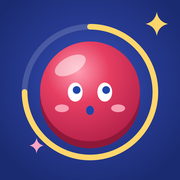
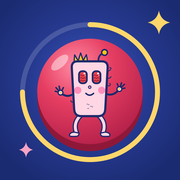
图标换成红按钮上的小Y；应用名改为「专注钟」

Changed region(s): [[0.1111, 0.1111, 0.8889, 0.9167], [0.8056, 0.0556, 0.9444, 0.1944]]

diff --git a/index.html b/index.html
@@ -9,12 +9,12 @@
 <link rel="apple-touch-icon" href="apple-touch-icon.png">
 <meta name="apple-mobile-web-app-capable" content="yes">
 <meta name="mobile-web-app-capable" content="yes">
-<meta name="apple-mobile-web-app-title" content="红按钮">
+<meta name="apple-mobile-web-app-title" content="专注钟">
 <meta name="apple-mobile-web-app-status-bar-style" content="default">
 <style>:root{padding-top:env(safe-area-inset-top,0px);padding-bottom:env(safe-area-inset-bottom,0px)}body{margin:0}[hidden]{display:none!important}img{max-width:100%}</style>
 </head>
 <body>
-<title>红按钮专注钟</title>
+<title>专注钟</title>
 <meta name="claude:viewport-fit-sides" content="cover">
 <meta name="theme-color" content="#c8d5f4">
 <link rel="preconnect" href="https://fonts.googleapis.com">
@@ -187,7 +187,7 @@ header { display: flex; align-items: center; justify-content: space-between; gap
   <header>
     <div class="brand">
       <div class="brand-mark">专</div>
-      <div><b>红按钮专注钟</b><small>25 分钟 · 一次只做一件事</small></div>
+      <div><b>专注钟</b><small>25 分钟 · 一次只做一件事</small></div>
     </div>
     <div class="tabs" role="tablist">
       <button id="tab-timer" role="tab" aria-selected="true">专注</button>

diff --git a/README.md b/README.md
@@ -1,4 +1,4 @@
-# 红按钮专注钟
+# 专注钟
 
 给 ADHDer 的番茄钟：一个红色大按钮，按下去专注 25 分钟。
 
@@ -16,4 +16,4 @@
 - iPhone：用 Safari 打开 → 分享 → 添加到主屏幕
 - 安卓：用 Chrome 打开 → 右上角菜单 → 添加到主屏幕 / 安装应用
 
-图标是 `icon.svg`（源文件），另有 512 / 192 / 180 / 32 像素的 PNG。
+图标是红按钮上的小Y，源文件 `icon.svg`，另有 512 / 192 / 180 / 32 像素的 PNG。
